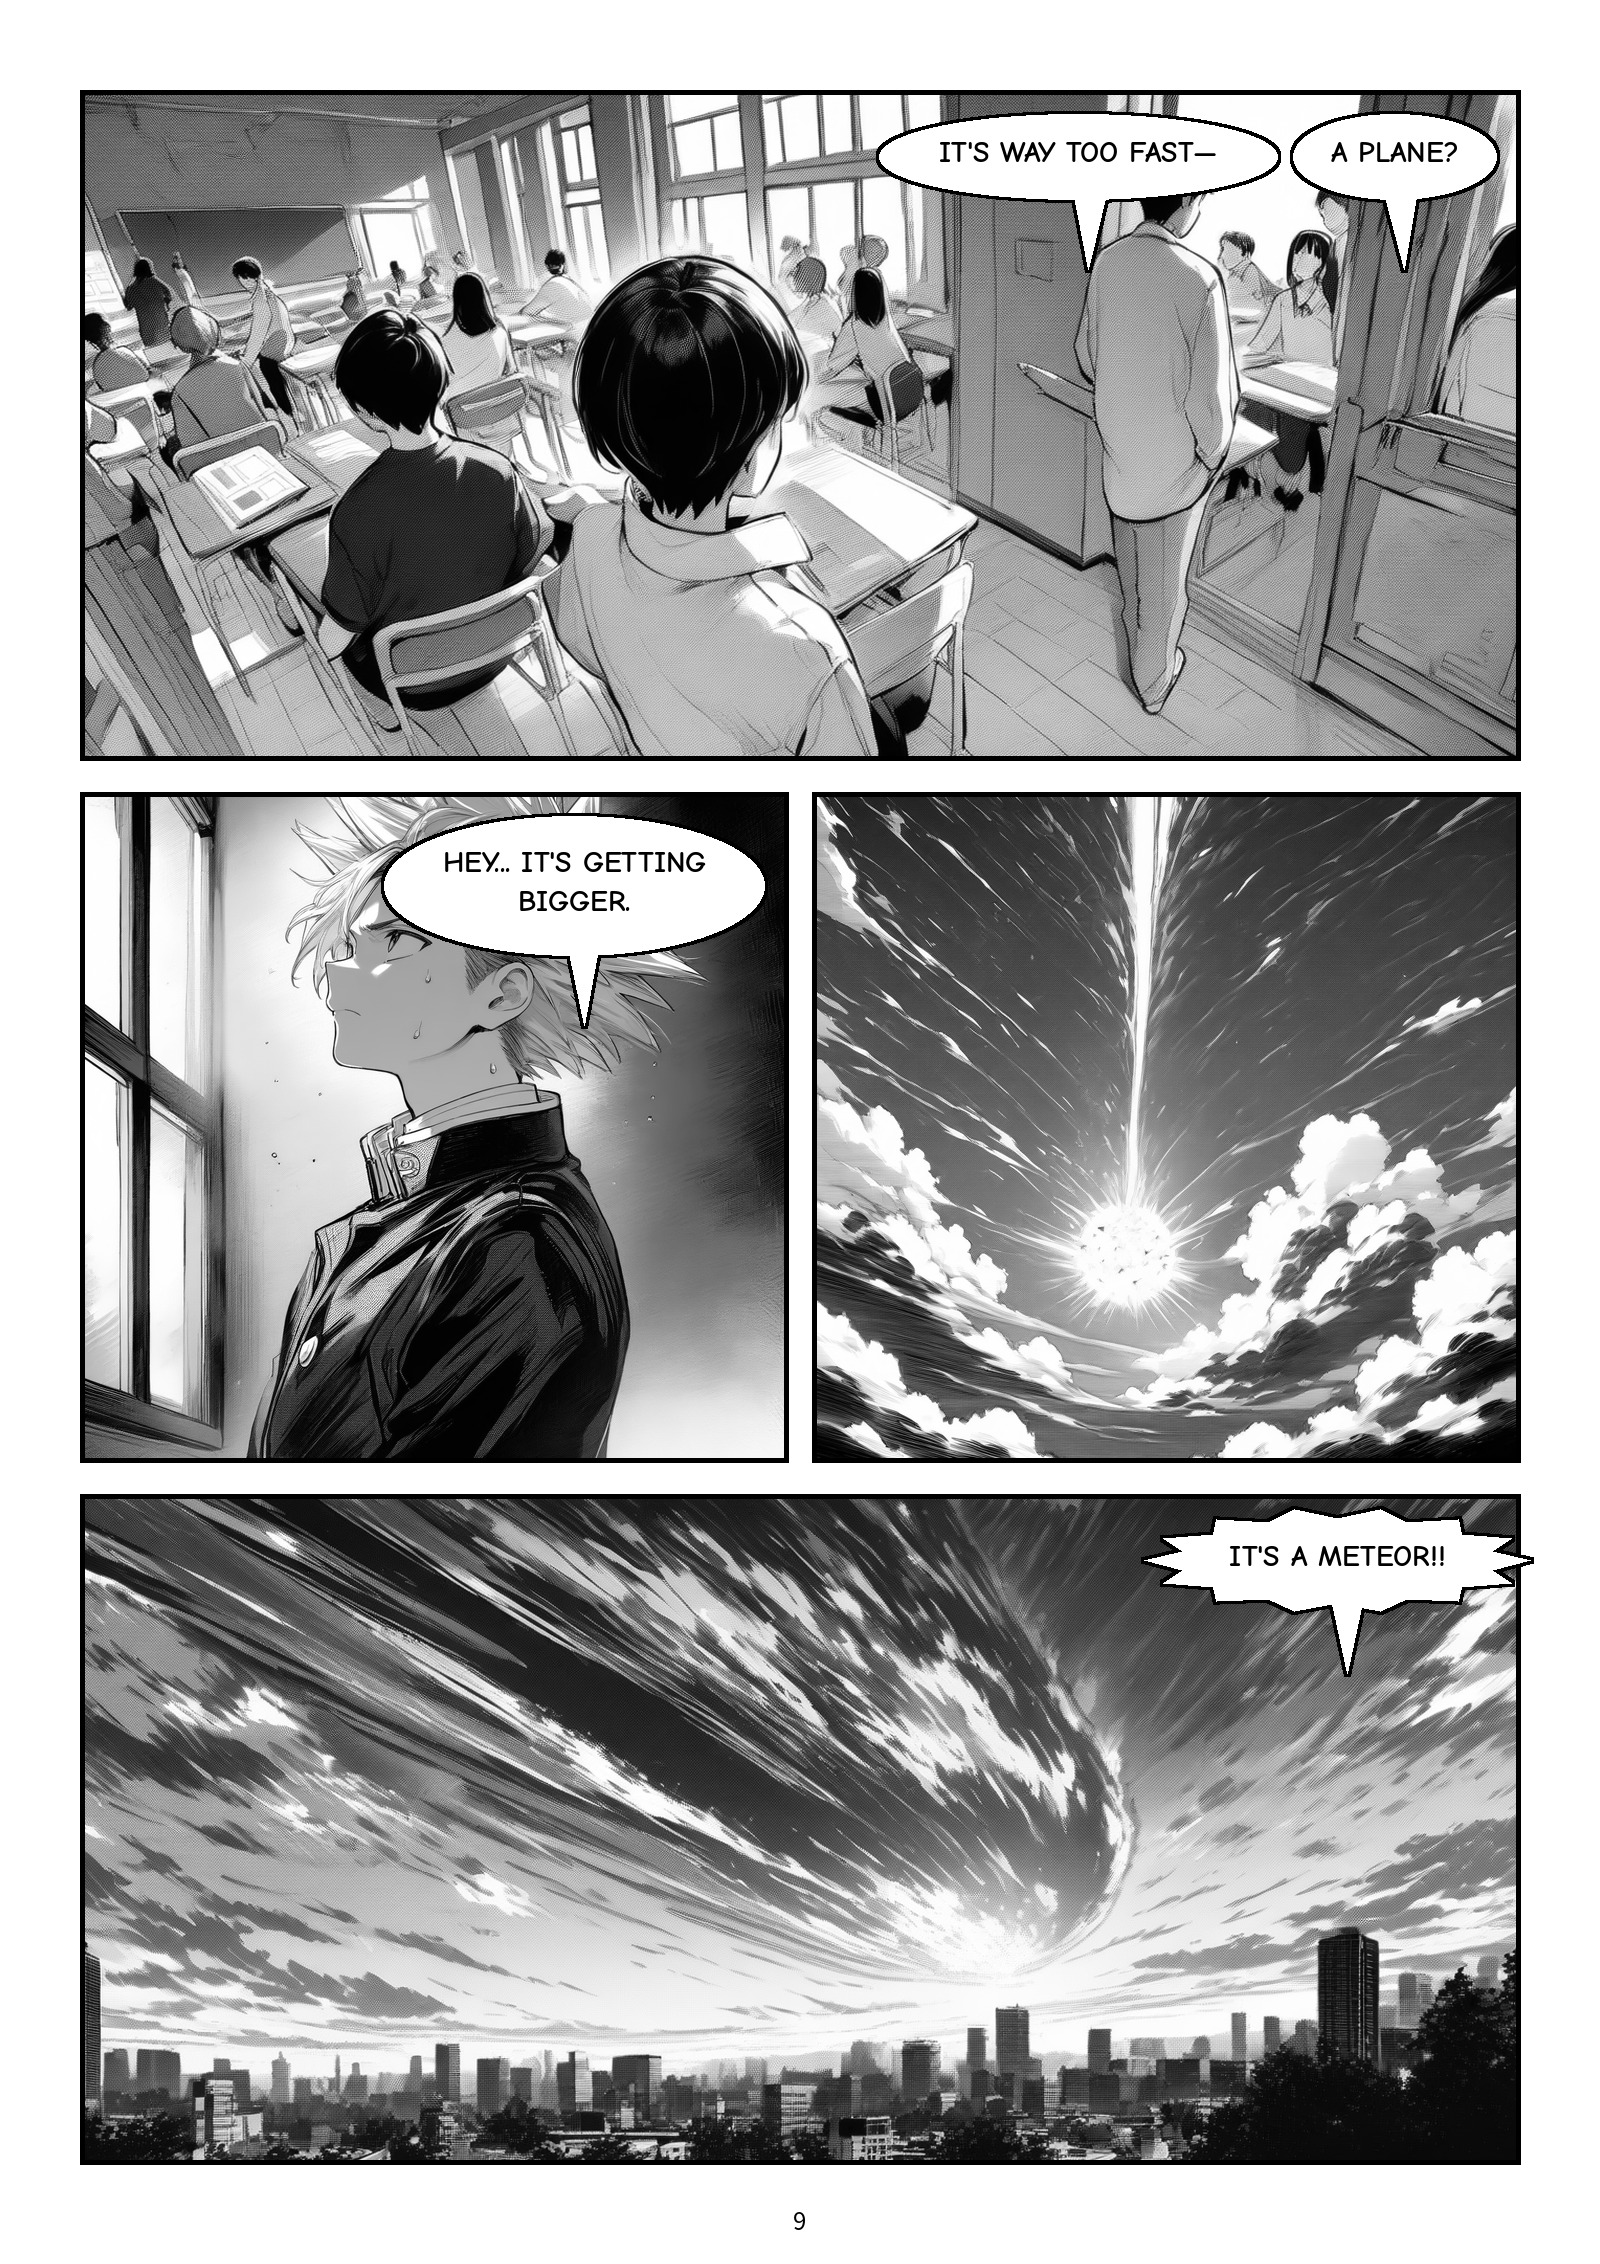
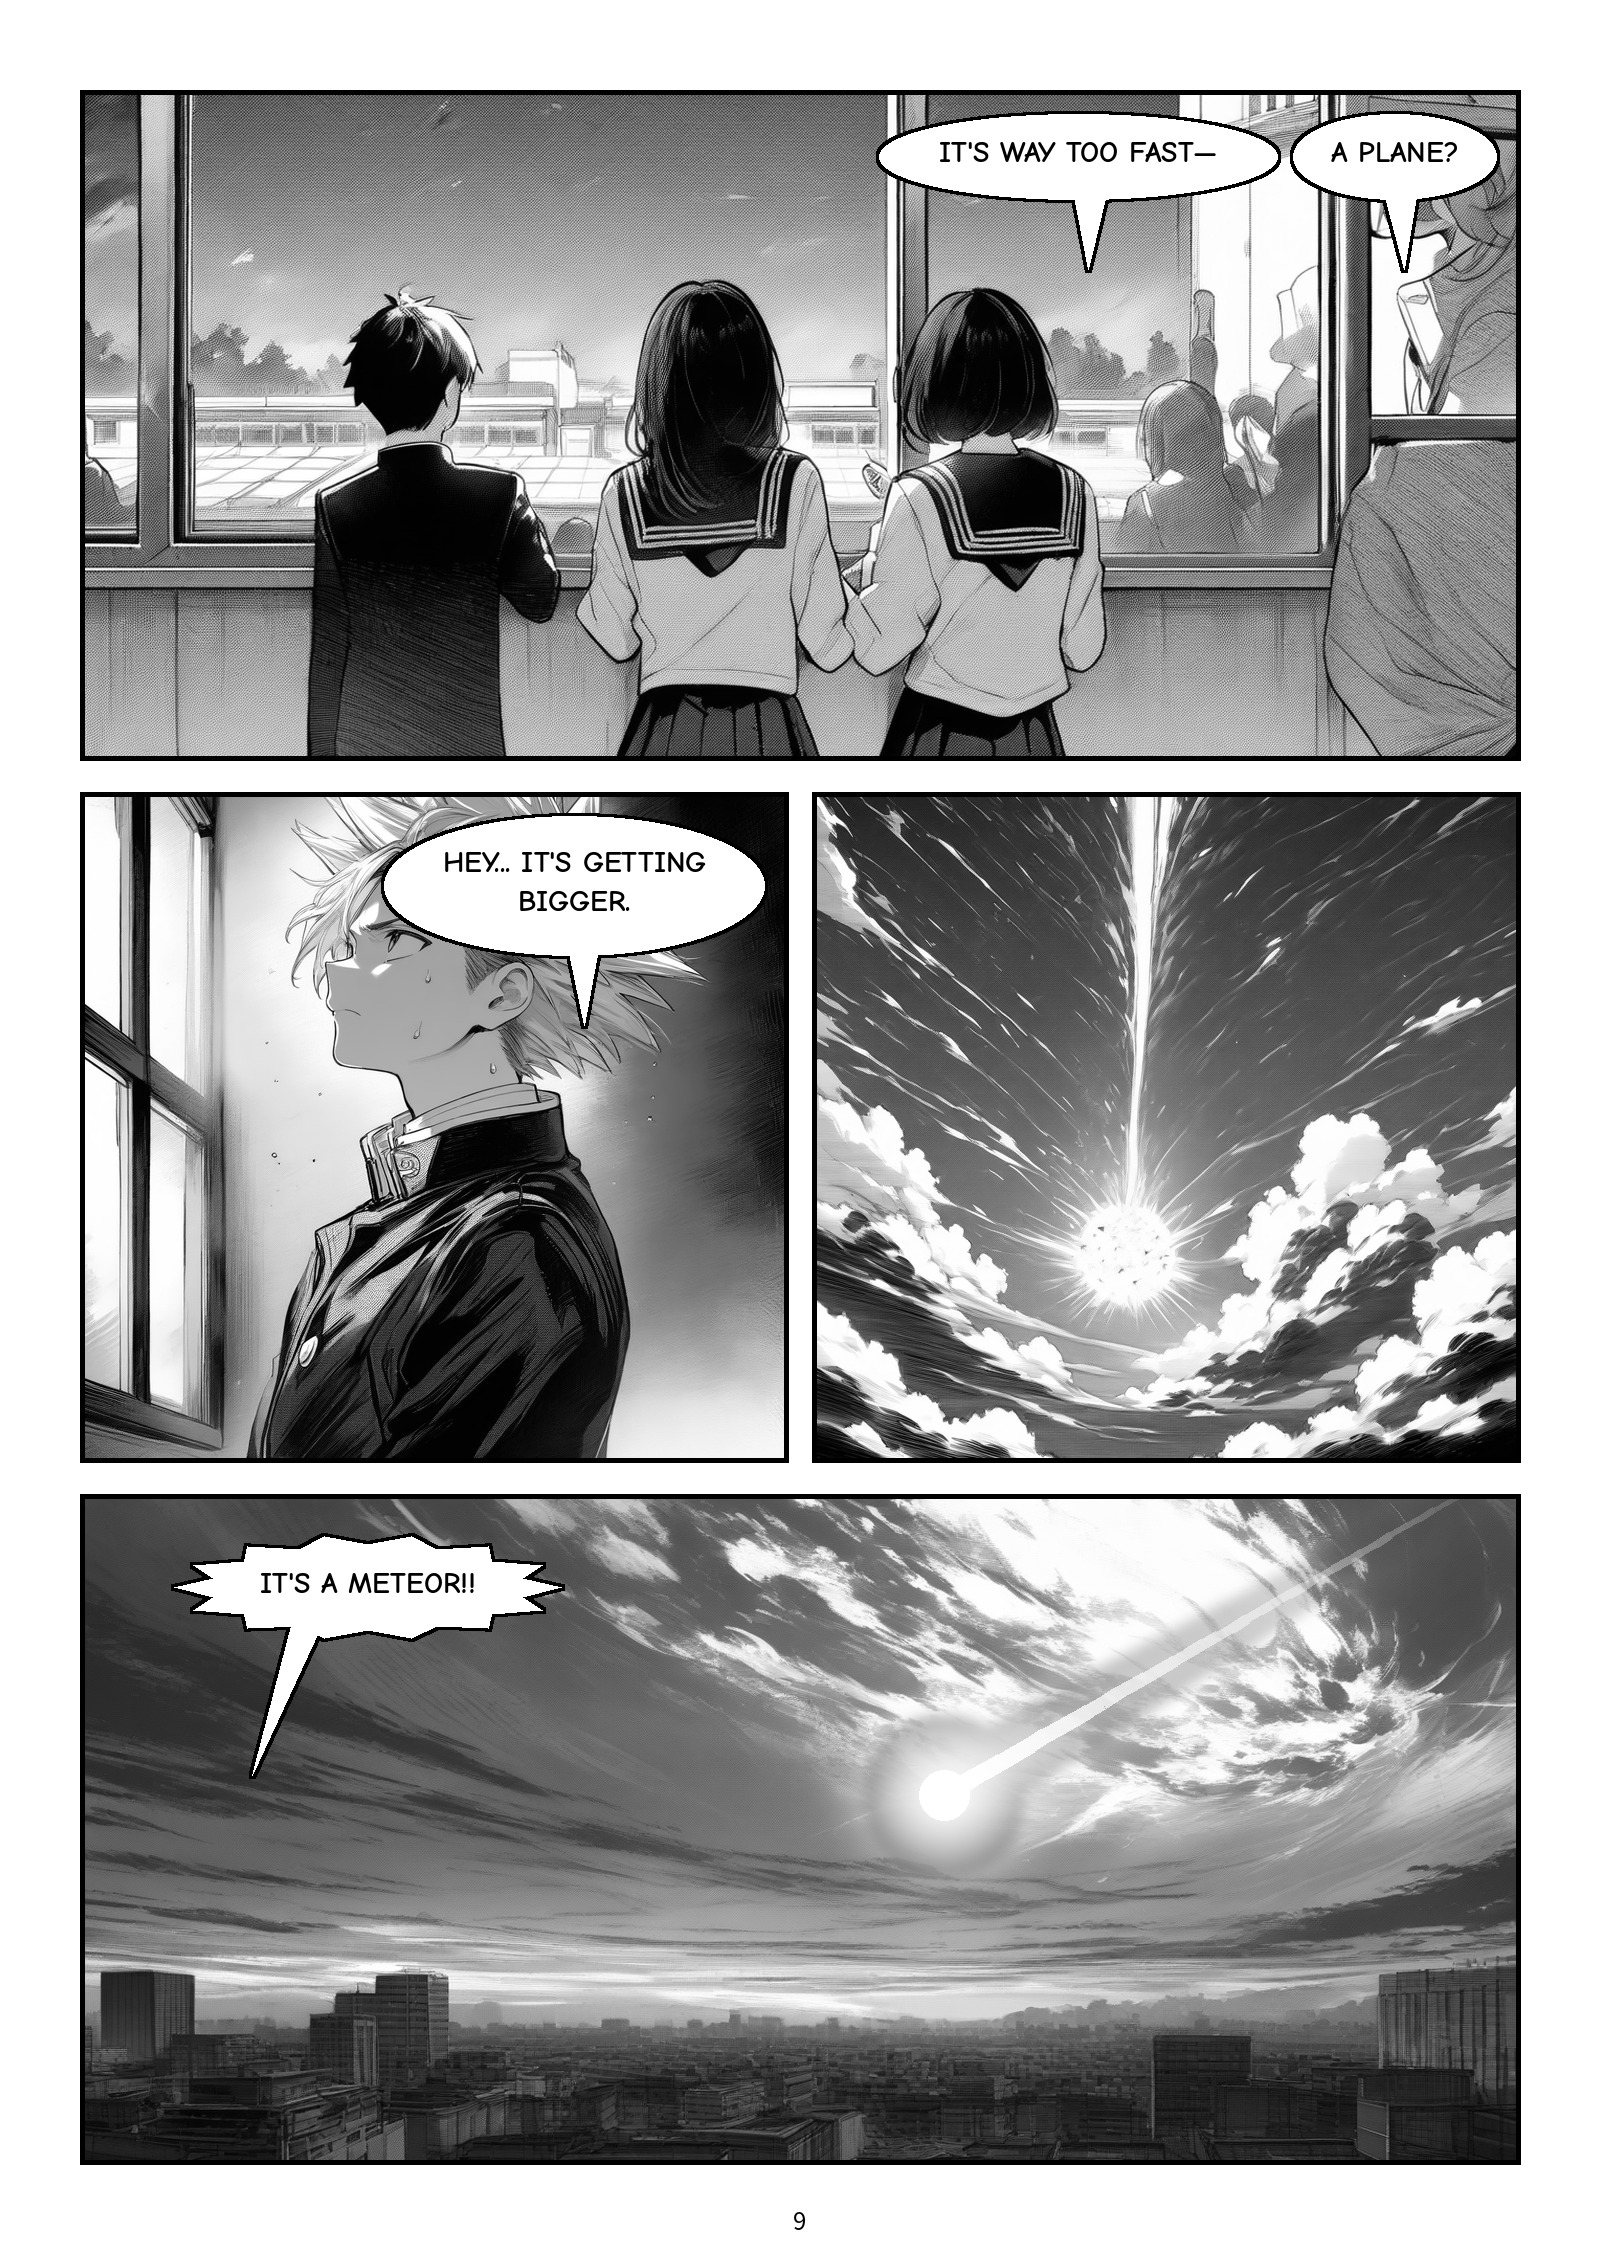
Draw page 9's meteor as one large fireball and clear its balloon
Claude-Session: https://claude.ai/code/session_01PF511aGmcMqQ6PCbPbr6tc

diff --git a/tools/manga/compose.py b/tools/manga/compose.py
@@ -421,9 +421,13 @@ def draw_title(page, rect):
 
 
 def draw_streak(img, spec):
-    """One glowing streak from (x0, y0) to its head at (x1, y1), in panel fractions."""
+    """One glowing streak from (x0, y0) to its head at (x1, y1), in panel fractions.
+
+    An optional fifth value scales the trail width and head size (a near fireball).
+    """
     w, h = img.size
     x0, y0, x1, y1 = spec[0] * w, spec[1] * h, spec[2] * w, spec[3] * h
+    k_size = spec[4] if len(spec) > 4 else 1.0
     glow = Image.new("L", (w, h), 0)
     core = Image.new("L", (w, h), 0)
     gd, cd = ImageDraw.Draw(glow), ImageDraw.Draw(core)
@@ -431,14 +435,14 @@ def draw_streak(img, spec):
     for k in range(n):
         t0, t1 = k / n, (k + 1) / n
         seg = (x0 + (x1 - x0) * t0, y0 + (y1 - y0) * t0, x0 + (x1 - x0) * t1, y0 + (y1 - y0) * t1)
-        gd.line(seg, fill=int(255 * t1), width=int(4 + 18 * t1))
-        cd.line(seg, fill=int(255 * t1), width=int(1 + 5 * t1))
-    r = max(6, int(min(w, h) * 0.012))
+        gd.line(seg, fill=int(255 * t1), width=int((4 + 18 * t1) * k_size))
+        cd.line(seg, fill=int(255 * t1), width=int((1 + 5 * t1) * k_size))
+    r = max(6, int(min(w, h) * 0.012 * k_size))
     gd.ellipse((x1 - 3 * r, y1 - 3 * r, x1 + 3 * r, y1 + 3 * r), fill=255)
     cd.ellipse((x1 - r, y1 - r, x1 + r, y1 + r), fill=255)
     shade = glow.filter(ImageFilter.MaxFilter(9)).filter(ImageFilter.GaussianBlur(6)).point(lambda v: v * 0.55)
     img.paste((30, 30, 30), (0, 0), shade)   # dark edge so the streak reads on a light sky
-    img.paste((255, 255, 255), (0, 0), glow.filter(ImageFilter.GaussianBlur(10)))
+    img.paste((255, 255, 255), (0, 0), glow.filter(ImageFilter.GaussianBlur(10 * k_size)))
     img.paste((255, 255, 255), (0, 0), core)
     return img
 
